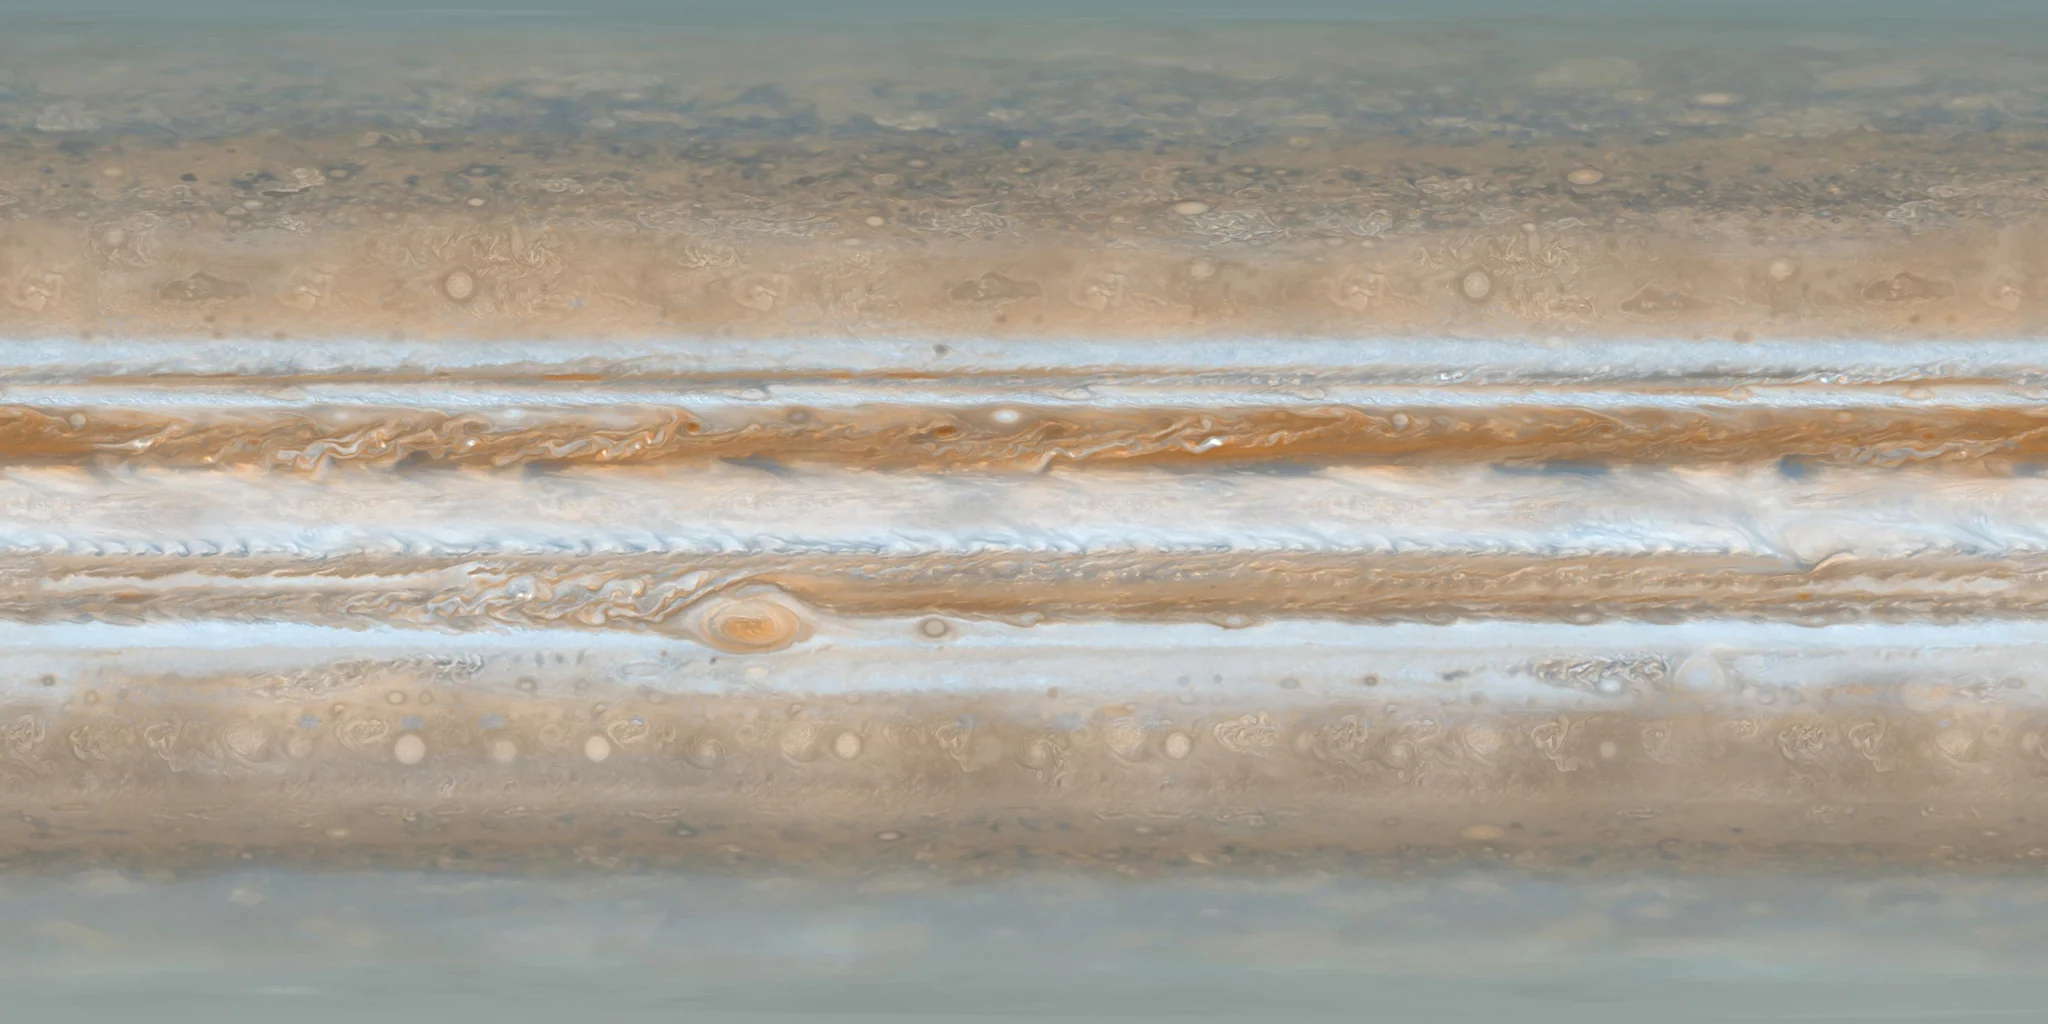
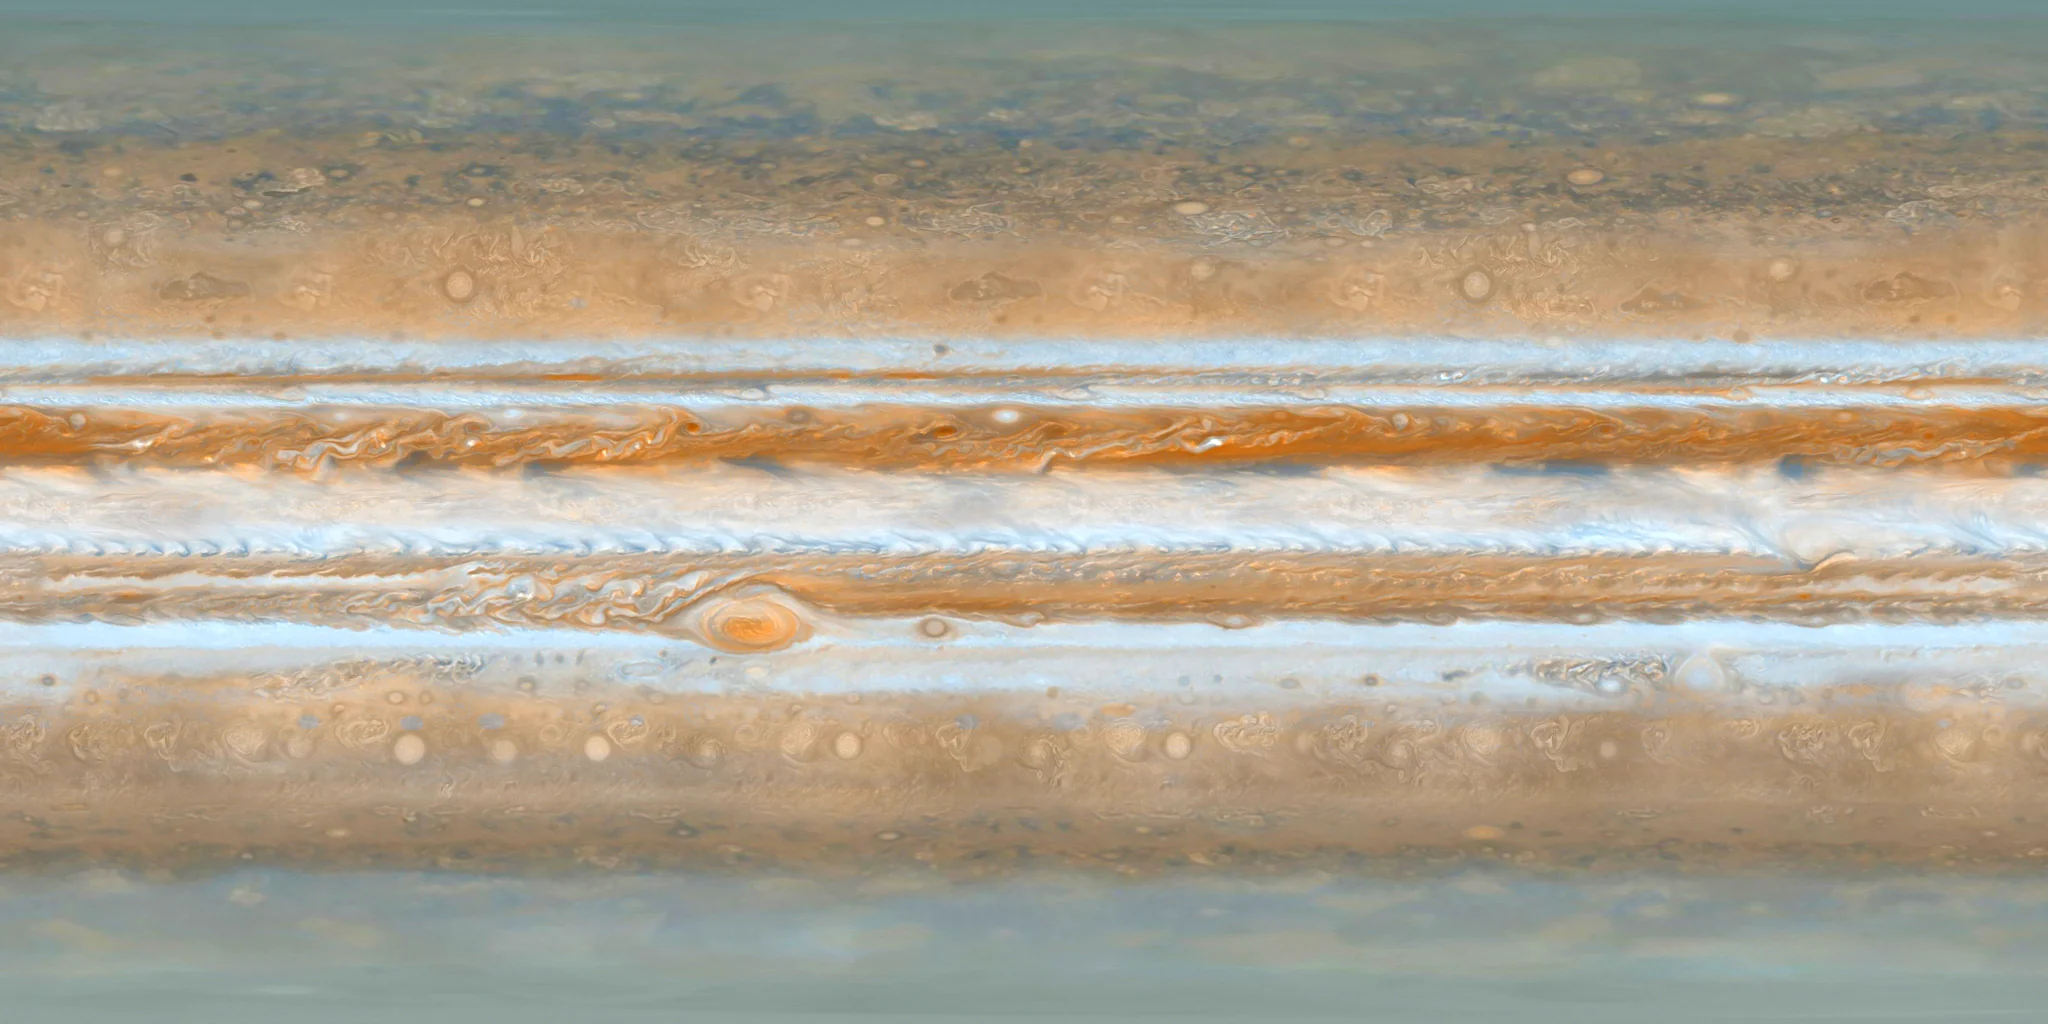
feat(orrery): Liven the Jupiter, Saturn and Mars maps

Changed region(s): [[0.0, 0.375, 1.0, 0.4688], [0.3438, 0.5625, 0.7188, 0.625]]

diff --git a/packages/orrery/scripts/build-maps.ts b/packages/orrery/scripts/build-maps.ts
@@ -31,6 +31,15 @@ const PLUTO_WIDTH = 24888;
 // Pluto's theme colour, #c8a593, scaled so its largest channel is 1.
 const PLUTO_TINT: [number, number, number] = [200 / 200, 165 / 200, 147 / 200];
 
+// Jupiter's and Saturn's sources are pale and flat; this brings out their bands. Saturn keeps
+// its whites, which clipped flat at white=0.95.
+const LIVELIER = ["--saturate", "1.4", "--contrast:black=0.08:white=0.95"];
+const LIVELIER_SATURN = [
+    "--saturate",
+    "1.4",
+    "--contrast:black=0.08:white=1.0",
+];
+
 // Output name, source file and extra oiiotool steps. The ring keeps its alpha channel.
 const MAPS: { out: string; source: string; alpha?: true; steps?: string[] }[] =
     [
@@ -42,9 +51,10 @@ const MAPS: { out: string; source: string; alpha?: true; steps?: string[] }[] =
         { out: "earth-night", source: "2k_earth_nightmap.jpg" },
         { out: "earth-clouds", source: "2k_earth_clouds.jpg" },
         { out: "moon", source: "2k_moon.jpg" },
-        { out: "mars", source: "2k_mars.jpg" },
-        { out: "jupiter", source: "2k_jupiter.jpg" },
-        { out: "saturn", source: "2k_saturn.jpg" },
+        // The source reads tomato-red once tone mapped.
+        { out: "mars", source: "2k_mars.jpg", steps: ["--saturate", "0.85"] },
+        { out: "jupiter", source: "2k_jupiter.jpg", steps: LIVELIER },
+        { out: "saturn", source: "2k_saturn.jpg", steps: LIVELIER_SATURN },
         { out: "saturn-ring", source: "2k_saturn_ring_alpha.png", alpha: true },
         { out: "uranus", source: "2k_uranus.jpg" },
         { out: "neptune", source: "2k_neptune.jpg" },
